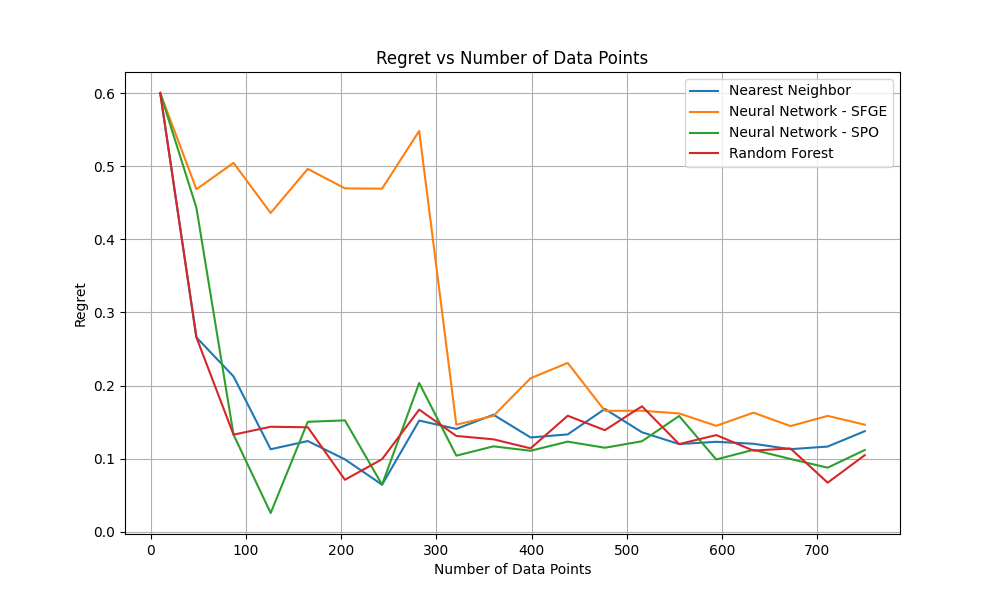
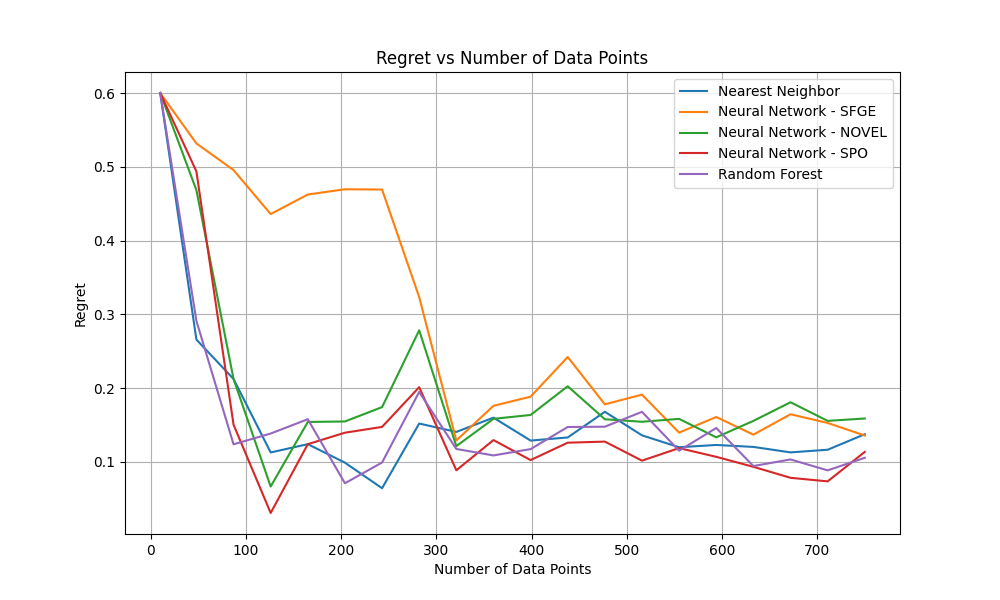
feat: novel loss (#6)

Changed region(s): [[0.093, 0.12, 0.899, 0.87], [0.093, 0.87, 0.124, 0.9]]

diff --git a/pkg/pyepo/predictive/neural.py b/pkg/pyepo/predictive/neural.py
@@ -9,13 +9,12 @@ import numpy as np
 import time as time
 from pyepo import EPO
 from enum import Enum
-
-from pyepo.func.surrogate import SFGE
-from pyepo.func.surrogate import SPOPlus
+from pyepo.func.surrogate import SFGE, novel, SPOPlus
 
 class LossType(Enum):
     SFGE = 1
     SPO = 2
+    NOVEL = 3
 
 class NeuralPrediction(PredictivePrescription):
 
@@ -68,6 +67,10 @@ class NeuralPrediction(PredictivePrescription):
             regret = true_objs_np - realised_obj
 
         return regret
+    
+    def _novel_loss(self, weights, costs, true_objs, data_sols):
+        loss = novel(weights, costs, true_objs, data_sols, self.model)
+        return loss
     
     def _sfge_loss(self, weights, costs, true_objs, data_sols, S) -> torch.Tensor:
         loss = SFGE(weights, costs, true_objs, data_sols, self.model, S)
@@ -130,13 +133,18 @@ class NeuralPrediction(PredictivePrescription):
                     loss = self._sfge_loss(weights, c, y_obj, data_sols, S)
                 elif loss_type == LossType.SPO:
                     loss = self._spo_loss(spo_plus, weights, data_costs, c, y_sol, y_obj)
-
+                elif loss_type == LossType.NOVEL:
+                    loss = self._novel_loss(weights, c, y_obj, data_sols)
+                else:
+                    raise ValueError("Invalid loss type. Must be LossType.SFGE, LossType.SPO, or LossType.NOVEL.")
                 # backward pass
                 optimizer.zero_grad()
                 loss.backward()
                 optimizer.step()
 
                 train_loss += loss.item() * -1
+
+
                 opt_sum += np.sum(abs(y_obj.squeeze().cpu().numpy()))
 
             train_loss = train_loss / len(train_loader)
@@ -167,6 +175,10 @@ class NeuralPrediction(PredictivePrescription):
                         val_loss += self._sfge_loss(weights, c, y_obj, sols, S).item() * -1
                     elif loss_type == LossType.SPO:
                         val_loss += self._spo_loss(spo_plus, weights, costs_full_data, c, y_sol, y_obj).item()
+                    elif loss_type == LossType.NOVEL:
+                        val_loss += self._novel_loss(weights, c, y_obj, sols).item()
+                    else:
+                        raise ValueError("Invalid loss type. Must be LossType.SFGE, LossType.SPO, or LossType.NOVEL.")
 
                 if calc_regret:
                     regret_loss = regret_loss / opt_sum
@@ -178,4 +190,7 @@ class NeuralPrediction(PredictivePrescription):
                 if self.verbose:
                     print(f"Early stopping at epoch {epoch+1}. Restored best weights.")
                 break
+
+            if epoch == epochs - 1:
+                print(f"Finished training for {epochs} epochs. Restoring best weights.")
 

diff --git a/pkg/pyepo/func/surrogate.py b/pkg/pyepo/func/surrogate.py
@@ -89,9 +89,9 @@ class SPOPlusFunc(Function):
         sol, obj = _solve_or_cache(2 * cp - c, module)
         # calculate loss
         if module.optmodel.modelSense == EPO.MINIMIZE:
-            loss = - obj + 2 * torch.einsum("bi,bi->b", cp, w) - z.squeeze(dim=-1)
+            loss = - obj + 2 *  (cp * w).sum(dim=1) - z.squeeze(dim=-1)
         elif module.optmodel.modelSense == EPO.MAXIMIZE:
-            loss = obj - 2 * torch.einsum("bi,bi->b", cp, w) + z.squeeze(dim=-1)
+            loss = obj - 2 * (cp * w).sum(dim=1) + z.squeeze(dim=-1)
         else:
             raise ValueError("Invalid modelSense. Must be EPO.MINIMIZE or EPO.MAXIMIZE.")
         # save solutions
@@ -237,3 +237,40 @@ def SFGE(weights: torch.Tensor, true_cost: torch.Tensor, true_obj: torch.Tensor,
         loss: torch.Tensor = (true_obj - realised_obj) * (cat.log_prob(indices.t())).t()
 
     return loss.mean()
+
+def novel(weights: torch.Tensor, true_cost: torch.Tensor, true_obj: torch.Tensor, data_sols:torch.Tensor, model: optModel) -> torch.Tensor:
+    realised_obj = model.cal_obj(true_cost, data_sols)
+    realised_obj = torch.tensor(realised_obj, dtype=torch.float32).to(weights.device)
+
+    if model.modelSense == EPO.MINIMIZE:
+        loss: torch.Tensor =  (realised_obj - true_obj) * weights
+    else:
+        loss: torch.Tensor = (true_obj - realised_obj) * weights  
+
+    final_loss = loss.sum()
+    return final_loss
+
+# def novel(weights: torch.Tensor, true_cost: torch.Tensor, true_obj: torch.Tensor, data_sols: torch.Tensor, model: optModel) -> torch.Tensor:
+#     # 1. Calculate raw costs (No Grad)
+#     with torch.no_grad():
+#         realised_obj = model.cal_obj(true_cost, data_sols)
+#         # realised_obj shape: [300] (or however many solutions you have)
+#         costs = torch.tensor(realised_obj, dtype=torch.float32).to(weights.device)
+
+#         # 2. CRITICAL: Normalize costs. 
+#         # This acts as a baseline. Positive values = "bad", Negative = "good".
+#         # If we don't do this, gradients are dominated by the raw magnitude of the cost.
+#         cost_std, cost_mean = torch.std_mean(costs)
+#         # Avoid division by zero
+#         normalized_costs = (costs - cost_mean) / (cost_std + 1e-8)
+        
+#         # If minimizing, we want to push probability UP for low costs (negative normalized values)
+#         # and DOWN for high costs (positive normalized values).
+#         if model.modelSense != EPO.MINIMIZE:
+#             normalized_costs = -normalized_costs
+
+#     # 3. Calculate Expected Risk
+#     # We detach costs because we only differentiate with respect to weights (p)
+#     loss = (weights * normalized_costs).sum()
+    
+#     return loss

diff --git a/benchmarks/knapsack_linear.py b/benchmarks/knapsack_linear.py
@@ -111,6 +111,7 @@ class knapSackModel(optGrbModel):
 numbers_data = np.linspace(10,750,20).astype(int)
 
 nearest_neigbor_regrets = np.zeros(len(numbers_data))
+neural_regrets_NOVEL = np.zeros(len(numbers_data))
 neural_regrets_SFGE = np.zeros(len(numbers_data))
 neural_regrets_SPO = np.zeros(len(numbers_data))
 rf_regrets = np.zeros(len(numbers_data))
@@ -132,6 +133,10 @@ for idx, num_data in enumerate(numbers_data):
     neural_predictor_SFGE.train_model(epochs=1000, loss_type=pyepo.predictive.neural.LossType.SFGE)
 
     weight_model = weigth_prediction(x_train.shape[1])
+    neural_predictor_NOVEL = NeuralPrediction(x_train, c_train, weight_model, optmodel)
+    neural_predictor_NOVEL.train_model(epochs=1000, loss_type=pyepo.predictive.neural.LossType.NOVEL)
+
+    weight_model = weigth_prediction(x_train.shape[1])
     neural_predictor_SPO = NeuralPrediction(x_train, c_train, weight_model, optmodel)
     neural_predictor_SPO.train_model(epochs=500, loss_type=pyepo.predictive.neural.LossType.SPO)
 
@@ -140,6 +145,7 @@ for idx, num_data in enumerate(numbers_data):
     #Run tests
     nearest_neigbor_regrets[idx] = test_model(nearest_neigbor_predictor, optmodel, x_test, c_test)
     neural_regrets_SFGE[idx] = test_model(neural_predictor_SFGE, optmodel, x_test, c_test)
+    neural_regrets_NOVEL[idx] = test_model(neural_predictor_NOVEL, optmodel, x_test, c_test)
     neural_regrets_SPO[idx] = test_model(neural_predictor_SPO, optmodel, x_test, c_test)
     rf_regrets[idx] = test_model(rf_predictor, optmodel, x_test, c_test)
 
@@ -147,6 +153,7 @@ for idx, num_data in enumerate(numbers_data):
 plt.figure(figsize=(10, 6))
 plt.plot(numbers_data, nearest_neigbor_regrets, label='Nearest Neighbor')
 plt.plot(numbers_data, neural_regrets_SFGE, label='Neural Network - SFGE')
+plt.plot(numbers_data, neural_regrets_NOVEL, label='Neural Network - NOVEL')
 plt.plot(numbers_data, neural_regrets_SPO, label='Neural Network - SPO')
 plt.plot(numbers_data, rf_regrets, label='Random Forest')
 plt.xlabel('Number of Data Points')

diff --git a/benchmarks/portfolio.py b/benchmarks/portfolio.py
@@ -148,11 +148,12 @@ class portfolioModel(optOmoModel):
         return obj
     
 
-n_datapoints = np.linspace(10,750,20).astype(int)
+n_datapoints = np.linspace(10,400,15).astype(int)
 
 nearest_neigbor_regrets = np.zeros(len(n_datapoints))
 neural_regrets_SFGE = np.zeros(len(n_datapoints))
 rf_regrets = np.zeros(len(n_datapoints))
+neural_regrets_NOVEL = np.zeros(len(n_datapoints))
 
 m = 50 # number of assets
 p = 4 # feature dimention
@@ -171,17 +172,23 @@ for idx, num_data in enumerate(n_datapoints):
     neural_predictor_SFGE = NeuralPrediction(x_train, c_train, weight_model, optmodel)
     neural_predictor_SFGE.train_model(epochs=1000, loss_type=pyepo.predictive.neural.LossType.SFGE)
 
+    weight_model = weigth_prediction(x_train.shape[1])
+    neural_predictor_NOVEL = NeuralPrediction(x_train, c_train, weight_model, optmodel)
+    neural_predictor_NOVEL.train_model(epochs=1000, loss_type=pyepo.predictive.neural.LossType.NOVEL)
+
     rf_predictor = RandomForestPrescription(x_train, c_train, optmodel)
 
     #Run tests
     nearest_neigbor_regrets[idx] = test_model(nearest_neigbor_predictor, optmodel, x_test, c_test)
     neural_regrets_SFGE[idx] = test_model(neural_predictor_SFGE, optmodel, x_test, c_test)
+    neural_regrets_NOVEL[idx] = test_model(neural_predictor_NOVEL, optmodel, x_test, c_test)
     rf_regrets[idx] = test_model(rf_predictor, optmodel, x_test, c_test)
 
 
 plt.figure(figsize=(10, 6))
 plt.plot(n_datapoints, nearest_neigbor_regrets, label='Nearest Neighbor')
 plt.plot(n_datapoints, neural_regrets_SFGE, label='Neural Network - SFGE')
+plt.plot(n_datapoints, neural_regrets_NOVEL, label='Neural Network - NOVEL')
 plt.plot(n_datapoints, rf_regrets, label='Random Forest')
 plt.xlabel('Number of Data Points')
 plt.ylabel('Regret')
